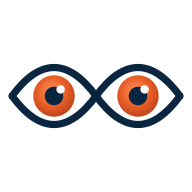
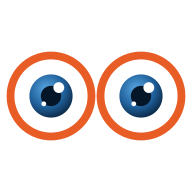
brand: round eyes with orange rim and blue iris; install from GitHub
- Mark redrawn as two round eyes (white sclera, Minfy-orange rim, blue
  iris, double glint); alert turns rim and iris crimson. Static, mono,
  PNG icons and social preview regenerated.
- Install hints (doctor, hook shim, /status) point at
  uv tool install git+https://github.com/surenganne/seen#subdirectory=packages/cli
  since seen-cli is not on PyPI.

Changed region(s): [[0.0312, 0.25, 0.9688, 0.75]]

diff --git a/web/src/components/Eyes.tsx b/web/src/components/Eyes.tsx
@@ -3,18 +3,19 @@ import "./eyes.css";
 
 export type EyesState = "idle" | "alert";
 
-/** The Seen mark (assets/brand/eyes.svg), transparent.
- *  idle: looks around and blinks. alert: stops, stares straight ahead, iris turns crimson. Reduced motion respected. */
+/** The Seen mark (assets/brand/eyes.svg): two round eyes, transparent background.
+ *  idle: looks around and blinks. alert: stops, stares straight ahead, iris and rim turn crimson. Reduced motion respected. */
 export function Eyes({ state = "idle", size = 32, label, onDark = false }: { state?: EyesState; size?: number; label?: string; onDark?: boolean }) {
   const id = useId().replace(/:/g, "");
   const eye = (cx: number, side: "l" | "r") => (
     <g className="eyes-eye">
-      <path className="eyes-rim" d={`M${cx - 14} 32 Q${cx} 13 ${cx + 14} 32 Q${cx} 51 ${cx - 14} 32Z`} />
+      <circle className="eyes-rim" cx={cx} cy="32" r="13.5" />
       <g clipPath={`url(#${id}${side})`}>
         <g className="eyes-look">
-          <circle cx={cx} cy="32" r="6.9" fill={`url(#${id}iris)`} className="eyes-iris" />
-          <circle cx={cx} cy="32" r="3.1" className="eyes-pupil" />
-          <circle cx={cx + 2.2} cy="29.8" r="1.4" className="eyes-glint" />
+          <circle cx={cx} cy="32" r="7.2" fill={`url(#${id}iris)`} className="eyes-iris" />
+          <circle cx={cx} cy="32" r="3.4" className="eyes-pupil" />
+          <circle cx={cx + 2.6} cy="29.2" r="1.8" className="eyes-glint" />
+          <circle cx={cx - 2.4} cy="34.6" r="0.8" className="eyes-glint" />
         </g>
       </g>
     </g>
@@ -22,24 +23,24 @@ export function Eyes({ state = "idle", size = 32, label, onDark = false }: { sta
   return (
     <svg
       className={`eyes eyes-${state}${onDark ? " eyes-on-dark" : ""}`}
-      width={size}
-      height={size}
-      viewBox="0 6 64 52"
+      width={size * 1.5}
+      height={size * 0.75}
+      viewBox="0 16 64 32"
       role="img"
       aria-label={label ?? (state === "alert" ? "Seen: needs attention" : "Seen")}
       data-state={state}
     >
       <defs>
-        <radialGradient id={`${id}iris`} cx="45%" cy="40%" r="65%">
+        <radialGradient id={`${id}iris`} cx="40%" cy="35%" r="70%">
           <stop offset="0" className="eyes-iris-hi" />
-          <stop offset=".55" className="eyes-iris-mid" />
+          <stop offset=".6" className="eyes-iris-mid" />
           <stop offset="1" className="eyes-iris-lo" />
         </radialGradient>
-        <clipPath id={`${id}l`}><path d="M4 32 Q18 13 32 32 Q18 51 4 32Z" /></clipPath>
-        <clipPath id={`${id}r`}><path d="M32 32 Q46 13 60 32 Q46 51 32 32Z" /></clipPath>
+        <clipPath id={`${id}l`}><circle cx="17" cy="32" r="12.2" /></clipPath>
+        <clipPath id={`${id}r`}><circle cx="47" cy="32" r="12.2" /></clipPath>
       </defs>
-      {eye(18, "l")}
-      {eye(46, "r")}
+      {eye(17, "l")}
+      {eye(47, "r")}
     </svg>
   );
 }

diff --git a/web/src/components/eyes.css b/web/src/components/eyes.css
@@ -1,22 +1,21 @@
 .eyes { display: block; flex: none; overflow: visible; }
-.eyes-rim { fill: #fff; stroke: var(--navy); stroke-width: 2.4; stroke-linejoin: round; }
-.eyes-on-dark .eyes-rim, :root[data-theme="dark"] .eyes-rim { stroke: oklch(0.86 0.02 255); }
-@media (prefers-color-scheme: dark) { :root:not([data-theme="light"]) .eyes-rim { stroke: oklch(0.86 0.02 255); } }
-.eyes-iris-hi { stop-color: #ff9a5c; transition: stop-color 250ms ease; }
-.eyes-iris-mid { stop-color: #e85d26; transition: stop-color 250ms ease; }
-.eyes-iris-lo { stop-color: #b8401a; transition: stop-color 250ms ease; }
-.eyes-pupil { fill: #0a2540; transition: r 250ms ease; }
+.eyes-rim { fill: #fff; stroke: #e85d26; stroke-width: 2.6; transition: stroke 250ms ease; }
+.eyes-iris-hi { stop-color: #5aa9e6; transition: stop-color 250ms ease; }
+.eyes-iris-mid { stop-color: #1f5f99; transition: stop-color 250ms ease; }
+.eyes-iris-lo { stop-color: #0a2540; transition: stop-color 250ms ease; }
+.eyes-pupil { fill: #061629; transition: r 250ms ease; }
 .eyes-glint { fill: #fff; }
 .eyes-eye { transform-box: fill-box; transform-origin: center; }
 .eyes-idle .eyes-eye { animation: eyes-blink 5.4s infinite; }
-.eyes-idle .eyes-look { animation: eyes-look 7s ease-in-out infinite; }
-.eyes-alert .eyes-iris-hi { stop-color: #ff6b7a; }
+.eyes-idle .eyes-look { animation: eyes-look 7s cubic-bezier(0.25, 1, 0.5, 1) infinite; }
+.eyes-alert .eyes-rim { stroke: #d42a45; }
+.eyes-alert .eyes-iris-hi { stop-color: #ff8a95; }
 .eyes-alert .eyes-iris-mid { stop-color: #d42a45; }
-.eyes-alert .eyes-iris-lo { stop-color: #8f1530; }
-.eyes-alert .eyes-pupil { r: 2.2; }
+.eyes-alert .eyes-iris-lo { stop-color: #7a1028; }
+.eyes-alert .eyes-pupil { r: 2.4; }
 @keyframes eyes-look {
-  0%, 16% { transform: translate(0, 0); } 22%, 38% { transform: translate(-4px, 0.6px); }
-  44%, 60% { transform: translate(4px, -0.4px); } 66%, 82% { transform: translate(0.8px, 2px); } 88%, 100% { transform: translate(0, 0); }
+  0%, 16% { transform: translate(0, 0); } 22%, 38% { transform: translate(-4.5px, 0.8px); }
+  44%, 60% { transform: translate(4.5px, -0.6px); } 66%, 82% { transform: translate(1px, 3px); } 88%, 100% { transform: translate(0, 0); }
 }
-@keyframes eyes-blink { 0%, 92%, 100% { transform: scaleY(1); } 95% { transform: scaleY(0.08); } }
+@keyframes eyes-blink { 0%, 92%, 100% { transform: scaleY(1); } 95% { transform: scaleY(0.1); } }
 @media (prefers-reduced-motion: reduce) { .eyes-eye, .eyes-look { animation: none !important; } }

diff --git a/packages/cli/src/seen_cli/main.py b/packages/cli/src/seen_cli/main.py
@@ -174,7 +174,7 @@ def doctor() -> None:
 
     line(sys.version_info >= (3, 11), f"python {sys.version.split()[0]} (need 3.11+)")
     hook = shutil.which("seen-hook")
-    line(bool(hook), f"seen-hook on PATH: {hook or 'not found (uv tool install seen-cli)'}")
+    line(bool(hook), f"seen-hook on PATH: {hook or 'not found (uv tool install git+https://github.com/surenganne/seen#subdirectory=packages/cli)'}")
     seens = [str(Path(d) / "seen") for d in os.environ.get("PATH", "").split(os.pathsep) if (Path(d) / "seen").is_file()]
     me = shutil.which("seen")
     mine = str(Path(sys.argv[0]).resolve()) if sys.argv and sys.argv[0] else ""

diff --git a/plugin/commands/status.md b/plugin/commands/status.md
@@ -2,4 +2,4 @@
 description: Seen ledger status for this repo (changes recorded, memory, audit chain)
 allowed-tools: Bash(seen status:*), Bash(seen memory list:*)
 ---
-Run `seen status` and `seen memory list` and summarise the output in a few lines: changes recorded, memory files and how many are stale or unverified, and whether the audit chain verified. If `seen` is not installed, say: install it with `uv tool install seen-cli`.
+Run `seen status` and `seen memory list` and summarise the output in a few lines: changes recorded, memory files and how many are stale or unverified, and whether the audit chain verified. If `seen` is not installed, say: install it with `uv tool install git+https://github.com/surenganne/seen#subdirectory=packages/cli`.
